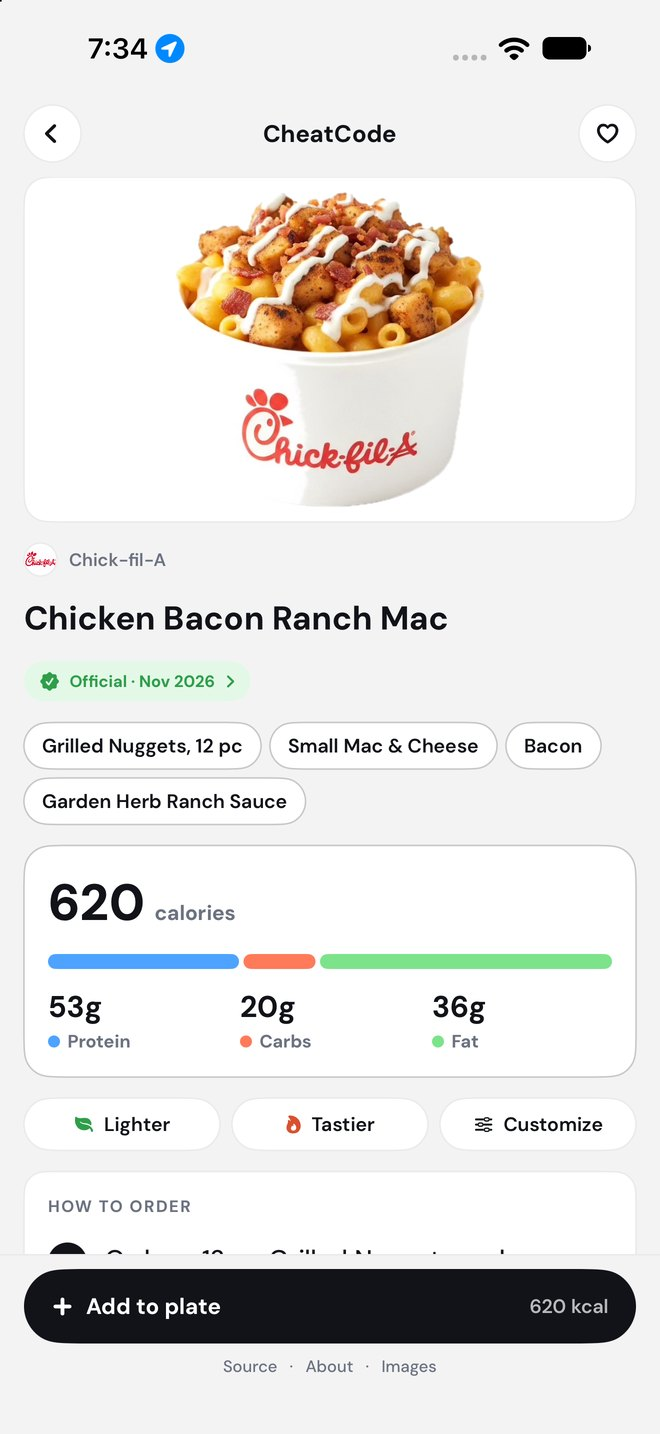
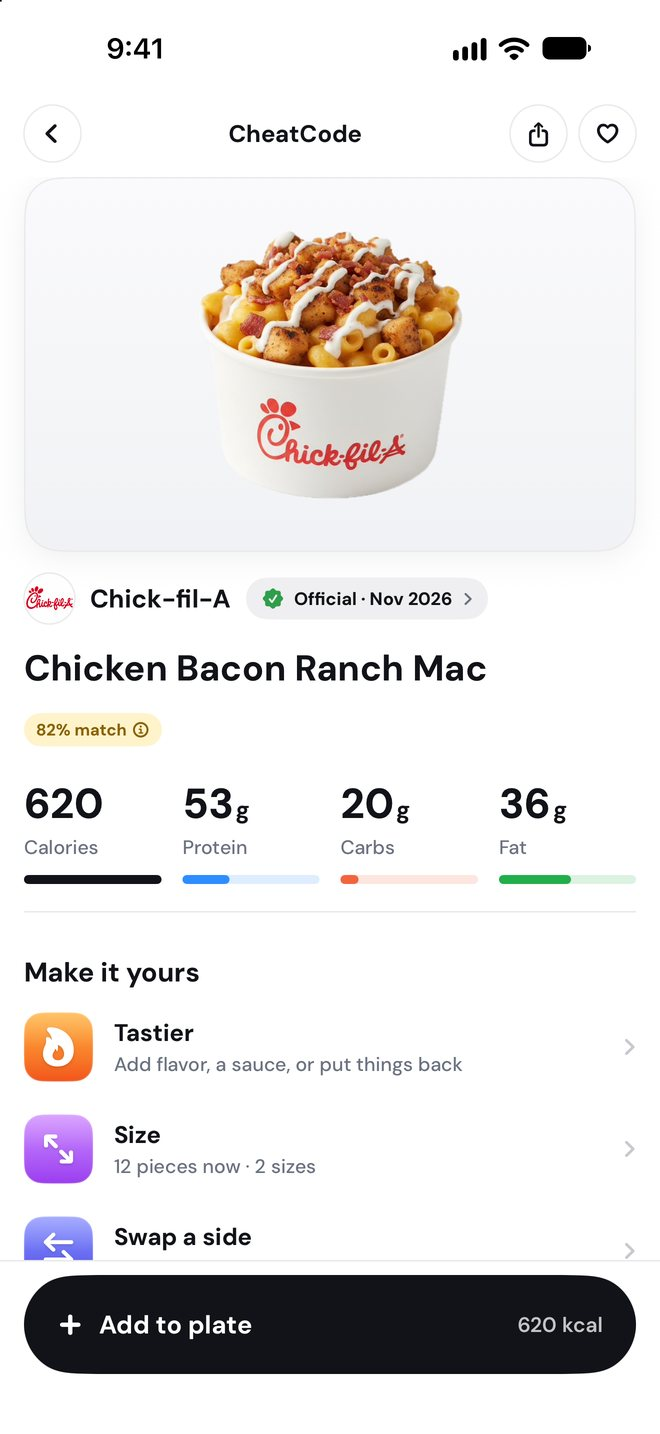
Site: new app screens, current food cards, swap sides, 52 chains

diff --git a/index.html b/index.html
@@ -266,8 +266,8 @@ footer { padding: 26px 0 48px; color: var(--soft); font-size: 14px; display: fle
       <a class="btn" href="https://apps.apple.com/app/id6832425448">Download on the App Store</a>
       <p class="fine">iPhone, iOS 17 or later. 3 days free on the yearly plan.</p>
       <div class="duo p3d" data-tilt>
-        <div class="phone back"><div class="body"><img src="restaurant.jpg" alt="A restaurant page in CheatCode with cheat codes and regular menu items" width="660" height="1434"><span class="isle"></span></div></div>
-        <div class="phone front"><div class="body"><img src="home.jpg" alt="CheatCode home screen: the three closest restaurants, your meal target, and orders that match it" width="660" height="1434"><span class="isle"></span></div></div>
+        <div class="phone back"><div class="body"><img src="restaurant.jpg?v=2" alt="A restaurant page in CheatCode with cheat codes and regular menu items" width="660" height="1434"><span class="isle"></span></div></div>
+        <div class="phone front"><div class="body"><img src="home.jpg?v=2" alt="CheatCode home screen: the three closest restaurants, your meal target, and orders that match it" width="660" height="1434"><span class="isle"></span></div></div>
       </div>
     </div>
   </section>
@@ -275,7 +275,7 @@ footer { padding: 26px 0 48px; color: var(--soft); font-size: 14px; display: fle
   <section class="how" id="how">
     <div class="wrap pair">
       <div class="stand p3d">
-        <div class="phone lean"><div class="body"><img src="order.jpg" alt="An order page with its photo, macros and ordering steps" width="660" height="1434" loading="lazy"><span class="isle"></span></div></div>
+        <div class="phone lean"><div class="body"><img src="order.jpg?v=2" alt="An order page with its photo, macros and ways to make it yours" width="660" height="1434" loading="lazy"><span class="isle"></span></div></div>
       </div>
       <div>
         <h2 class="rv">Real numbers.<br>Two ways to order.</h2>
@@ -286,7 +286,7 @@ footer { padding: 26px 0 48px; color: var(--soft); font-size: 14px; display: fle
         <li class="rv"><svg viewBox="0 0 24 24" width="30" height="30" fill="none" stroke="currentColor" stroke-width="2" stroke-linecap="round" stroke-linejoin="round" aria-hidden="true"><path d="M4 7h9M17 7h3M4 17h3M11 17h9"/><circle cx="15" cy="7" r="2"/><circle cx="9" cy="17" r="2"/></svg><div><h3>Scales with your calories</h3><p>Move your calories up or down and the orders follow: 3 tenders or 5, a 6&#8209;inch or a Footlong. Only sizes they sell</p></div></li>
         <li class="rv"><svg viewBox="0 0 24 24" width="30" height="30" fill="none" stroke="currentColor" stroke-width="2" stroke-linecap="round" stroke-linejoin="round" aria-hidden="true"><path d="M8 6h13M8 12h13M8 18h13"/><circle cx="3.5" cy="6" r="1"/><circle cx="3.5" cy="12" r="1"/><circle cx="3.5" cy="18" r="1"/></svg><div><h3>Straight off the menu</h3><p>The regular items you already order, for when you just want something off the menu</p></div></li>
         <li class="rv"><svg viewBox="0 0 24 24" width="30" height="30" fill="none" stroke="currentColor" stroke-width="2" stroke-linecap="round" stroke-linejoin="round" aria-hidden="true"><path d="M6 3h12v18l-3-2-3 2-3-2-3 2z"/><path d="M9 8h6M9 12h6M9 16h3"/></svg><div><h3>Your plate</h3><p>Add a few orders, see the total, and get the steps to order each one</p></div></li>
-        <li class="rv"><svg viewBox="0 0 24 24" width="30" height="30" fill="none" stroke="currentColor" stroke-width="2" stroke-linecap="round" stroke-linejoin="round" aria-hidden="true"><path d="M7 20V4M3 8l4-4 4 4M17 4v16M13 16l4 4 4-4"/></svg><div><h3>Lighter, tastier or a new size</h3><p>Change an order with a tap, using only what the restaurant sells</p></div></li>
+        <li class="rv"><svg viewBox="0 0 24 24" width="30" height="30" fill="none" stroke="currentColor" stroke-width="2" stroke-linecap="round" stroke-linejoin="round" aria-hidden="true"><path d="M7 20V4M3 8l4-4 4 4M17 4v16M13 16l4 4 4-4"/></svg><div><h3>Lighter, tastier, a new size or side</h3><p>Change an order with a tap, like rice to mashed potatoes, using only what the restaurant sells</p></div></li>
         <li class="rv"><svg viewBox="0 0 24 24" width="30" height="30" fill="none" stroke="currentColor" stroke-width="2" stroke-linecap="round" stroke-linejoin="round" aria-hidden="true"><path d="M6 7v10M18 7v10M3 9.5v5M21 9.5v5M6 12h12"/></svg><div><h3>More protein</h3><p>Shows the best way to add protein for the fewest extra calories</p></div></li>
         <li class="rv"><svg viewBox="0 0 24 24" width="30" height="30" fill="none" stroke="currentColor" stroke-width="2" stroke-linecap="round" stroke-linejoin="round" aria-hidden="true"><circle cx="12" cy="12" r="9"/><path d="M14.8 9c-.5-.9-1.500-1.500-2.800-1.500-1.700 0-2.900.9-2.900 2.200 0 3.100 6 1.500 6 4.700 0 1.400-1.300 2.300-3.100 2.300-1.400 0-2.600-.6-3.100-1.600M12 5.800v1.700M12 16.700v1.500"/></svg><div><h3>Budget picks, seasonal drinks and treats</h3><p>Budget friendly cheat codes with free changes, viral and seasonal coffee orders, and a treat pick at each restaurant</p></div></li>
         <li class="rv"><svg viewBox="0 0 24 24" width="30" height="30" fill="none" stroke="currentColor" stroke-width="2" stroke-linecap="round" stroke-linejoin="round" aria-hidden="true"><path d="M3 12V4h8l10 10-8 8z"/><circle cx="7.5" cy="8.5" r="1.5"/></svg><div><h3>Every card says what it is</h3><p>Small marks for Budget, Seasonal, Lean, High volume and Treat pick</p></div></li>
@@ -306,24 +306,24 @@ footer { padding: 26px 0 48px; color: var(--soft); font-size: 14px; display: fle
     <div class="belt"><div class="track">
         <article class="card"><img src="food/chick-fil-a-chicken-bacon-ranch-mac.jpg" alt="Chicken Bacon Ranch Mac from Chick-fil-A" width="420" height="420"><small>Chick-fil-A</small><h3>Chicken Bacon Ranch Mac</h3><p><b>620</b> kcal<br><span class="dot"></span>53g protein</p></article>
         <article class="card"><img src="food/burger-king-quad-bacon-cheeseburger-bowl.jpg" alt="Quad Bacon Cheeseburger Bowl from Burger King" width="420" height="420"><small>Burger King</small><h3>Quad Bacon Cheeseburger Bowl</h3><p><b>560</b> kcal<br><span class="dot"></span>44g protein</p></article>
-        <article class="card"><img src="food/chipotle-double-barbacoa-salad.jpg" alt="Double Barbacoa Salad from Chipotle" width="420" height="420"><small>Chipotle</small><h3>Double Barbacoa Salad</h3><p><b>500</b> kcal<br><span class="dot"></span>57g protein</p></article>
-        <article class="card"><img src="food/arbys-meat-mountain-bowl.jpg" alt="Meat Mountain Bowl from Arby&#x27;s" width="420" height="420"><small>Arby&#x27;s</small><h3>Meat Mountain Bowl</h3><p><b>697</b> kcal<br><span class="dot"></span>63g protein</p></article>
+        <article class="card"><img src="food/chipotle-double-barbacoa-salad.jpg" alt="Double Barbacoa Salad from Chipotle" width="420" height="420"><small>Chipotle</small><h3>Double Barbacoa Salad</h3><p><b>520</b> kcal<br><span class="dot"></span>58g protein</p></article>
+        <article class="card"><img src="food/kfc-original-two-piece-plate.jpg" alt="Original Two Piece Plate from KFC" width="420" height="420"><small>KFC</small><h3>Original Two Piece Plate</h3><p><b>615</b> kcal<br><span class="dot"></span>54g protein</p></article>
         <article class="card"><img src="food/chick-fil-a-double-grilled-club-lettuce-wrap.jpg" alt="Double Grilled Lettuce Wrap from Chick-fil-A" width="420" height="420"><small>Chick-fil-A</small><h3>Double Grilled Lettuce Wrap</h3><p><b>385</b> kcal<br><span class="dot"></span>51g protein</p></article>
         <article class="card"><img src="food/five-guys-triple-bacon-burger-bowl.jpg" alt="Triple Bacon Burger Bowl from Five Guys" width="420" height="420"><small>Five Guys</small><h3>Triple Bacon Burger Bowl</h3><p><b>524</b> kcal<br><span class="dot"></span>34g protein</p></article>
         <article class="card"><img src="food/chipotle-crispy-steak-bean-tacos.jpg" alt="Crispy Steak Tacos from Chipotle" width="420" height="420"><small>Chipotle</small><h3>Crispy Steak Tacos</h3><p><b>515</b> kcal<br><span class="dot"></span>33g protein</p></article>
-        <article class="card"><img src="food/dairy-queen-chicken-egg-scramble-bowl.jpg" alt="Chicken &amp; Egg Scramble Bowl from Dairy Queen" width="420" height="420"><small>Dairy Queen</small><h3>Chicken &amp; Egg Scramble Bowl</h3><p><b>510</b> kcal<br><span class="dot"></span>45g protein</p></article>
+        <article class="card"><img src="food/panda-express-greens-teriyaki-bowl.jpg" alt="Greens Teriyaki Bowl from Panda Express" width="420" height="420"><small>Panda Express</small><h3>Greens Teriyaki Bowl</h3><p><b>460</b> kcal<br><span class="dot"></span>46g protein</p></article>
         <article class="card"><img src="food/jack-in-the-box-double-grilled-southwest-bowl.jpg" alt="Double Grilled Southwest Bowl from Jack in the Box" width="420" height="420"><small>Jack in the Box</small><h3>Double Grilled Southwest Bowl</h3><p><b>580</b> kcal<br><span class="dot"></span>56g protein</p></article>
         <article class="card"><img src="food/chick-fil-a-buffalo-chicken-mac-bowl.jpg" alt="Buffalo Chicken Mac Bowl from Chick-fil-A" width="420" height="420"><small>Chick-fil-A</small><h3>Buffalo Chicken Mac Bowl</h3><p><b>495</b> kcal<br><span class="dot"></span>50g protein</p></article>
         <article class="card"><img src="food/chipotle-double-steak-queso-fajita-bowl.jpg" alt="Double Steak Queso Fajita Bowl from Chipotle" width="420" height="420"><small>Chipotle</small><h3>Double Steak Queso Fajita Bowl</h3><p><b>480</b> kcal<br><span class="dot"></span>49g protein</p></article>
         <article class="card"><img src="food/chick-fil-a-sweet-heat-grilled-kale-salad.jpg" alt="Sweet Heat Grilled Kale Salad from Chick-fil-A" width="420" height="420"><small>Chick-fil-A</small><h3>Sweet Heat Grilled Kale Salad</h3><p><b>397</b> kcal<br><span class="dot"></span>42g protein</p></article>
         <article class="card" aria-hidden="true"><img src="food/chick-fil-a-chicken-bacon-ranch-mac.jpg" alt="" width="420" height="420"><small>Chick-fil-A</small><h3>Chicken Bacon Ranch Mac</h3><p><b>620</b> kcal<br><span class="dot"></span>53g protein</p></article>
         <article class="card" aria-hidden="true"><img src="food/burger-king-quad-bacon-cheeseburger-bowl.jpg" alt="" width="420" height="420"><small>Burger King</small><h3>Quad Bacon Cheeseburger Bowl</h3><p><b>560</b> kcal<br><span class="dot"></span>44g protein</p></article>
-        <article class="card" aria-hidden="true"><img src="food/chipotle-double-barbacoa-salad.jpg" alt="" width="420" height="420"><small>Chipotle</small><h3>Double Barbacoa Salad</h3><p><b>500</b> kcal<br><span class="dot"></span>57g protein</p></article>
-        <article class="card" aria-hidden="true"><img src="food/arbys-meat-mountain-bowl.jpg" alt="" width="420" height="420"><small>Arby&#x27;s</small><h3>Meat Mountain Bowl</h3><p><b>697</b> kcal<br><span class="dot"></span>63g protein</p></article>
+        <article class="card" aria-hidden="true"><img src="food/chipotle-double-barbacoa-salad.jpg" alt="" width="420" height="420"><small>Chipotle</small><h3>Double Barbacoa Salad</h3><p><b>520</b> kcal<br><span class="dot"></span>58g protein</p></article>
+        <article class="card" aria-hidden="true"><img src="food/kfc-original-two-piece-plate.jpg" alt="" width="420" height="420"><small>KFC</small><h3>Original Two Piece Plate</h3><p><b>615</b> kcal<br><span class="dot"></span>54g protein</p></article>
         <article class="card" aria-hidden="true"><img src="food/chick-fil-a-double-grilled-club-lettuce-wrap.jpg" alt="" width="420" height="420"><small>Chick-fil-A</small><h3>Double Grilled Lettuce Wrap</h3><p><b>385</b> kcal<br><span class="dot"></span>51g protein</p></article>
         <article class="card" aria-hidden="true"><img src="food/five-guys-triple-bacon-burger-bowl.jpg" alt="" width="420" height="420"><small>Five Guys</small><h3>Triple Bacon Burger Bowl</h3><p><b>524</b> kcal<br><span class="dot"></span>34g protein</p></article>
         <article class="card" aria-hidden="true"><img src="food/chipotle-crispy-steak-bean-tacos.jpg" alt="" width="420" height="420"><small>Chipotle</small><h3>Crispy Steak Tacos</h3><p><b>515</b> kcal<br><span class="dot"></span>33g protein</p></article>
-        <article class="card" aria-hidden="true"><img src="food/dairy-queen-chicken-egg-scramble-bowl.jpg" alt="" width="420" height="420"><small>Dairy Queen</small><h3>Chicken &amp; Egg Scramble Bowl</h3><p><b>510</b> kcal<br><span class="dot"></span>45g protein</p></article>
+        <article class="card" aria-hidden="true"><img src="food/panda-express-greens-teriyaki-bowl.jpg" alt="" width="420" height="420"><small>Panda Express</small><h3>Greens Teriyaki Bowl</h3><p><b>460</b> kcal<br><span class="dot"></span>46g protein</p></article>
         <article class="card" aria-hidden="true"><img src="food/jack-in-the-box-double-grilled-southwest-bowl.jpg" alt="" width="420" height="420"><small>Jack in the Box</small><h3>Double Grilled Southwest Bowl</h3><p><b>580</b> kcal<br><span class="dot"></span>56g protein</p></article>
         <article class="card" aria-hidden="true"><img src="food/chick-fil-a-buffalo-chicken-mac-bowl.jpg" alt="" width="420" height="420"><small>Chick-fil-A</small><h3>Buffalo Chicken Mac Bowl</h3><p><b>495</b> kcal<br><span class="dot"></span>50g protein</p></article>
         <article class="card" aria-hidden="true"><img src="food/chipotle-double-steak-queso-fajita-bowl.jpg" alt="" width="420" height="420"><small>Chipotle</small><h3>Double Steak Queso Fajita Bowl</h3><p><b>480</b> kcal<br><span class="dot"></span>49g protein</p></article>
@@ -356,9 +356,9 @@ footer { padding: 26px 0 48px; color: var(--soft); font-size: 14px; display: fle
       <p class="kicker">Numbers from the restaurant and the USDA. Not AI.</p>
       <a class="btn light" href="https://apps.apple.com/app/id6832425448">Download</a>
       <div class="three p3d" data-tilt>
-        <div class="phone left"><div class="body"><img src="home.jpg" alt="Home screen with the closest restaurants and matching orders" width="660" height="1434" loading="lazy"><span class="isle"></span></div></div>
-        <div class="phone mid"><div class="body"><img src="restaurant.jpg" alt="A restaurant page with cheat codes and regular menu items" width="660" height="1434" loading="lazy"><span class="isle"></span></div></div>
-        <div class="phone right"><div class="body"><img src="order.jpg" alt="An order page with macros and ordering steps" width="660" height="1434" loading="lazy"><span class="isle"></span></div></div>
+        <div class="phone left"><div class="body"><img src="home.jpg?v=2" alt="Home screen with the closest restaurants and matching orders" width="660" height="1434" loading="lazy"><span class="isle"></span></div></div>
+        <div class="phone mid"><div class="body"><img src="restaurant.jpg?v=2" alt="A restaurant page with cheat codes and regular menu items" width="660" height="1434" loading="lazy"><span class="isle"></span></div></div>
+        <div class="phone right"><div class="body"><img src="order.jpg?v=2" alt="An order page with macros and ways to make it yours" width="660" height="1434" loading="lazy"><span class="isle"></span></div></div>
       </div>
     </div>
   </section>
@@ -385,7 +385,7 @@ footer { padding: 26px 0 48px; color: var(--soft); font-size: 14px; display: fle
   <section class="chains">
     <div class="wrap">
       <h2 class="rv">Chains in the app</h2>
-      <p><strong>McDonald's, Chick-fil-A, Chipotle, Taco Bell, Wendy's, Popeyes, Starbucks, Subway, Burger King, Raising Cane's, Panera, In-N-Out, Five Guys, Wingstop, Dunkin', Panda Express, Jersey Mike's, Jimmy John's, KFC, Whataburger, Shake Shack, Chili's, Applebee's, Olive Garden, Texas Roadhouse</strong> and 18 more.</p>
+      <p><strong>McDonald's, Chick-fil-A, Chipotle, Taco Bell, Wendy's, Popeyes, Starbucks, Subway, Burger King, Raising Cane's, Panera, In-N-Out, Five Guys, Wingstop, Dunkin', Panda Express, Jersey Mike's, Jimmy John's, KFC, Whataburger, Shake Shack, Chili's, Applebee's, Olive Garden, Texas Roadhouse</strong> and 27 more.</p>
     </div>
   </section>
 
